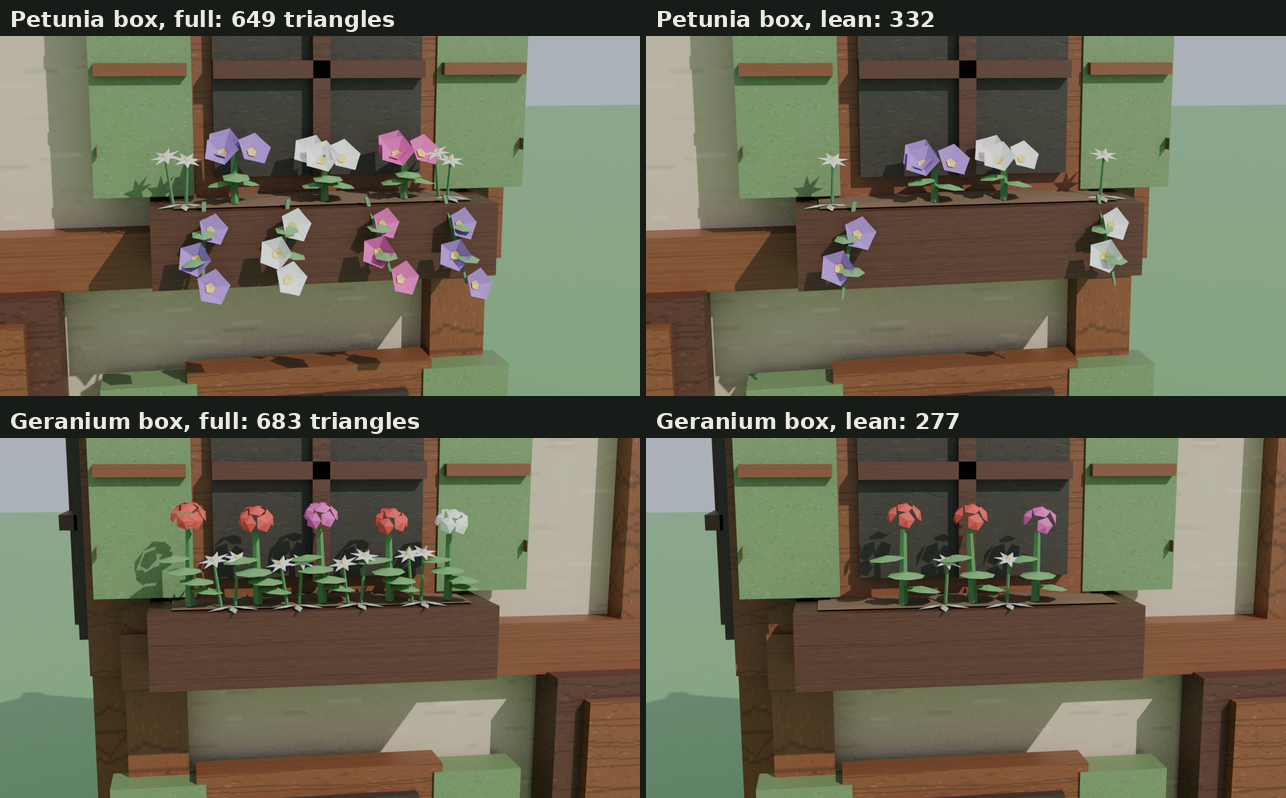
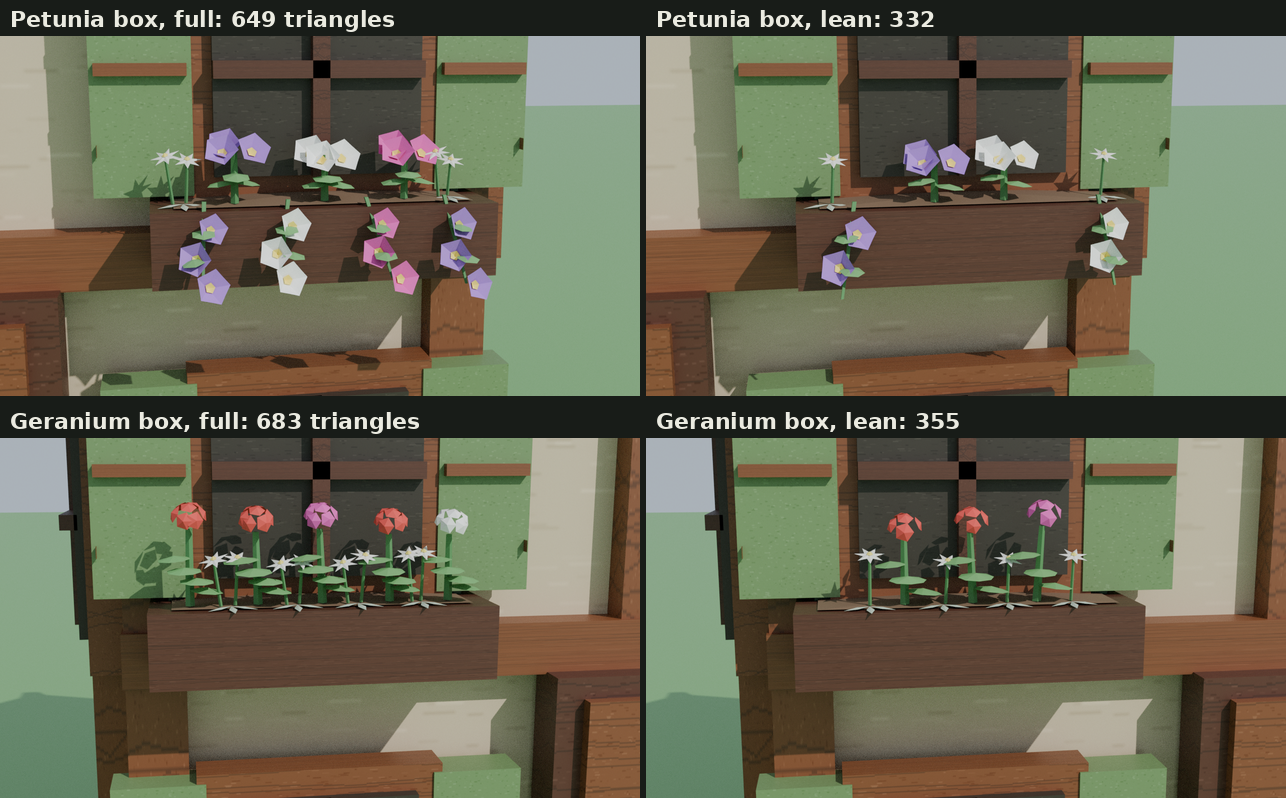
Flowers: the lean geranium box keeps all four edelweiss tufts
Will, 2026-11-22: "4 edelweiss in geranium lean box". Lean geranium boxes now have 4 tufts of 1 head (355 triangles,
was 277; petunia lean 332), 8,839 lean triangles in all (+6.4 % on the level); the lean per-box test limit is 360.
Plan numbers, the lean picture and the lean geranium render time are regenerated.

Claude-Session: https://claude.ai/code/session_01YEenqS8xiqchQY9wRjgxXo

Changed region(s): [[0.6221, 0.6316, 0.8398, 0.782], [0.7154, 0.5113, 0.7465, 0.5414]]

diff --git a/wflevels/cuckoo_village_assets/flowers.py b/wflevels/cuckoo_village_assets/flowers.py
@@ -47,7 +47,7 @@ QUALITY = {
     "full": dict(mounds=3, mound_blooms=3, mound_leaves=3, vines=4, vine_blooms=3, vine_leaves=2, tufts=2, heads=2,
                  g_plants=5, g_umbel=7, g_leaves=4, g_tufts=4),
     "lean": dict(mounds=2, mound_blooms=3, mound_leaves=2, vines=2, vine_blooms=2, vine_leaves=2, tufts=2, heads=1,
-                 g_plants=3, g_umbel=5, g_leaves=3, g_tufts=2),
+                 g_plants=3, g_umbel=5, g_leaves=3, g_tufts=4),
 }
 
 

diff --git a/tests/test_cuckoo_village_flowers.py b/tests/test_cuckoo_village_flowers.py
@@ -12,7 +12,7 @@ sys.path.insert(0, str(ROOT / "wflevels/cuckoo_village_assets"))
 import flowers as fl  # noqa: E402
 
 BOXES = 26                       # 13 cottages with two front window boxes each
-FULL_PER_BOX, LEAN_PER_BOX = 700, 350
+FULL_PER_BOX, LEAN_PER_BOX = 700, 360
 FULL_TOTAL = 18_200              # 26 x 700: the plan's budget
 
 

diff --git a/docs/plans/2026-11-22-cuckoo-village-flowers.md b/docs/plans/2026-11-22-cuckoo-village-flowers.md
@@ -32,7 +32,7 @@ A **petunia bloom** is a funnel: ten petal triangles round a recessed rim of fiv
 
 **Why one actor of flowers.** One baked actor costs 10 draw calls for all 26 boxes. One actor per cottage would cost 13 × 10 = 130. Triangles are cheap on this GPU and draw calls are not, so I chose the single actor, which gives up per-cottage culling. If the profiling says that was the wrong call, the fallback is four actors by quarter of the village (40 draw calls).
 
-**Fallback set.** `QUALITY["lean"]` is the same flowers with fewer parts (332 triangles on a petunia box instead of 649, 277 on a geranium box instead of 683: for example 2 mounds of 3 blooms, 2 vines of 2 blooms and 2 tufts of 1 head on a petunia box). It is a switch in code, not a setting. It is used only if the profiling gate fails (see Profiling).
+**Fallback set.** `QUALITY["lean"]` is the same flowers with fewer parts (332 triangles on a petunia box instead of 649, 355 on a geranium box instead of 683: for example 2 mounds of 3 blooms, 2 vines of 2 blooms and 2 tufts of 1 head on a petunia box, and 3 plants of 5 florets and 4 tufts of 1 head on a geranium box, so a geranium box keeps all four of its edelweiss). It is a switch in code, not a setting. It is used only if the profiling gate fails (see Profiling).
 
 Other files that change with the new field: `cuckoovillagesettings.oas` (+ the regenerated `.oad` and `.ht`), `timeline.py` (`SETTINGS_DEFAULTS` and the two cell numbers, 227 and 228, after the flame cells), the phone's capabilities asset (`scripts/gen-settings-capabilities.py` regenerates it from the `.oad`), and `test_cuckoo_village_settings.py` and `test_cuckoo_village_settings_effect.py` (seven fields instead of six).
 
@@ -79,15 +79,15 @@ Counted from the code, not estimated (a test enforces the full set at 700 trian
 
 | | Today | Full (proposal) | Lean (fallback) |
 |---|---|---|---|
-| Triangles in one box | about 164 (14 cubes) | 649 (petunia), 683 (geranium) | 332 (petunia), 277 (geranium) |
-| Triangles in all 26 boxes (17 petunia, 9 geranium) | 4,264 | 17,180 | 8,137 |
+| Triangles in one box | about 164 (14 cubes) | 649 (petunia), 683 (geranium) | 332 (petunia), 355 (geranium) |
+| Triangles in all 26 boxes (17 petunia, 9 geranium) | 4,264 | 17,180 | 8,839 |
 | Cottage mesh (shared by 13) | 1,724 | 1,396 | 1,396 |
-| Whole level, setting On, about | 70,964 | 83,880 (+18.2 %) | 74,837 (+5.5 %) |
+| Whole level, setting On, about | 70,964 | 83,880 (+18.2 %) | 75,539 (+6.4 %) |
 | Whole level, setting Off | 70,964 | 70,964 (same blocks, as a separate actor) | 70,964 |
 | Draw calls added, On | 0 (shares the house's) | 10 | 10 |
 | Actors added | 0 | 2 (flowers and blocks) | 2 |
-| Level file, estimated, with the setting | 4.98 MB | about 5.58 MB (+0.60 MB) | about 5.33 MB (+0.35 MB) |
-| Level file, estimated, after the setting is retired | 4.98 MB | about 5.45 MB (+0.47 MB) | about 5.2 MB (+0.23 MB) |
+| Level file, estimated, with the setting | 4.98 MB | about 5.58 MB (+0.60 MB) | about 5.34 MB (+0.36 MB) |
+| Level file, estimated, after the setting is retired | 4.98 MB | about 5.45 MB (+0.47 MB) | about 5.22 MB (+0.24 MB) |
 
 The file estimate uses the cost the candles measured: 27.9 bytes a triangle (4,882,432 to 4,982,784 bytes for about 3,600 triangles and 13 actors). The setting keeps both versions in the file, which adds the 4,264 triangles of blocks (about 0.12 MB). It is an estimate until the level is built. The Clocks bundle (8.56 MB) grows by the same amount.
 
@@ -211,7 +211,7 @@ The render times come from one sequential run (before, then after, then lean) wh
 | View | Before: wall / CPU | After, full: wall / CPU | After, lean: wall / CPU |
 |---|---|---|---|
 | Close-up, petunia box | 162.2 s / 392 s | 83.5 s / 373 s | 79.3 s / 369 s |
-| Close-up, geranium box | 151.8 s / 402 s | 110.1 s / 403 s | 108.1 s / 383 s |
+| Close-up, geranium box | 151.8 s / 402 s | 110.1 s / 403 s | 94.9 s / 387 s |
 | Cottage | 62.9 s / 293 s | 89.2 s / 305 s | not rendered |
 | Street | 43.3 s / 222 s | 77.0 s / 234 s | not rendered |
 | Total (the four views) | 420.2 s / 1,309 s | 359.8 s / 1,315 s | not comparable |
@@ -246,7 +246,7 @@ The engine has no level-of-detail support of its own (a search of `wfsource`, `e
 | Level | What it is | Triangles a box |
 |---|---|---|
 | LOD0 | the full flowers of this plan | 649 (petunia), 683 (geranium) |
-| LOD1 | the lean set | 332, 277 |
+| LOD1 | the lean set | 332, 355 |
 | LOD2 | colour only: a few flat quads and a dome in the box's main colours, with no stems or leaves | about 12 (to be modelled) |
 
 Switch distances are set from the pixel sizes above (a first guess: LOD0 inside 9 m, LOD1 to 16 m, LOD2 beyond) and **tuned by the profiling**, with a **hysteresis of 1 m** so that a cottage at the boundary does not flip every frame, and the cottages switch independently.
@@ -311,7 +311,7 @@ Adopt a LOD variant only if all of these hold, otherwise keep the static flowers
 1. its p95 frame time is at least **0.5 ms** below the static Full's in the busiest 10 % of the lap;
 2. its p50 is not above the static Full's by more than 0.2 ms anywhere in the lap (the director's distance tests and the extra draw calls cost something);
 3. no pop pair exceeds the threshold, and no cottage switches more than 4 times a lap;
-4. the level file grows by no more than 0.4 MB over this plan's (LOD1 is the lean mesh, 8,137 triangles, about 0.23 MB, and LOD2 is small), and the plan's own gate still passes.
+4. the level file grows by no more than 0.4 MB over this plan's (LOD1 is the lean mesh, 8,839 triangles, about 0.25 MB, and LOD2 is small), and the plan's own gate still passes.
 
 ### Verification of the follow-up
 
